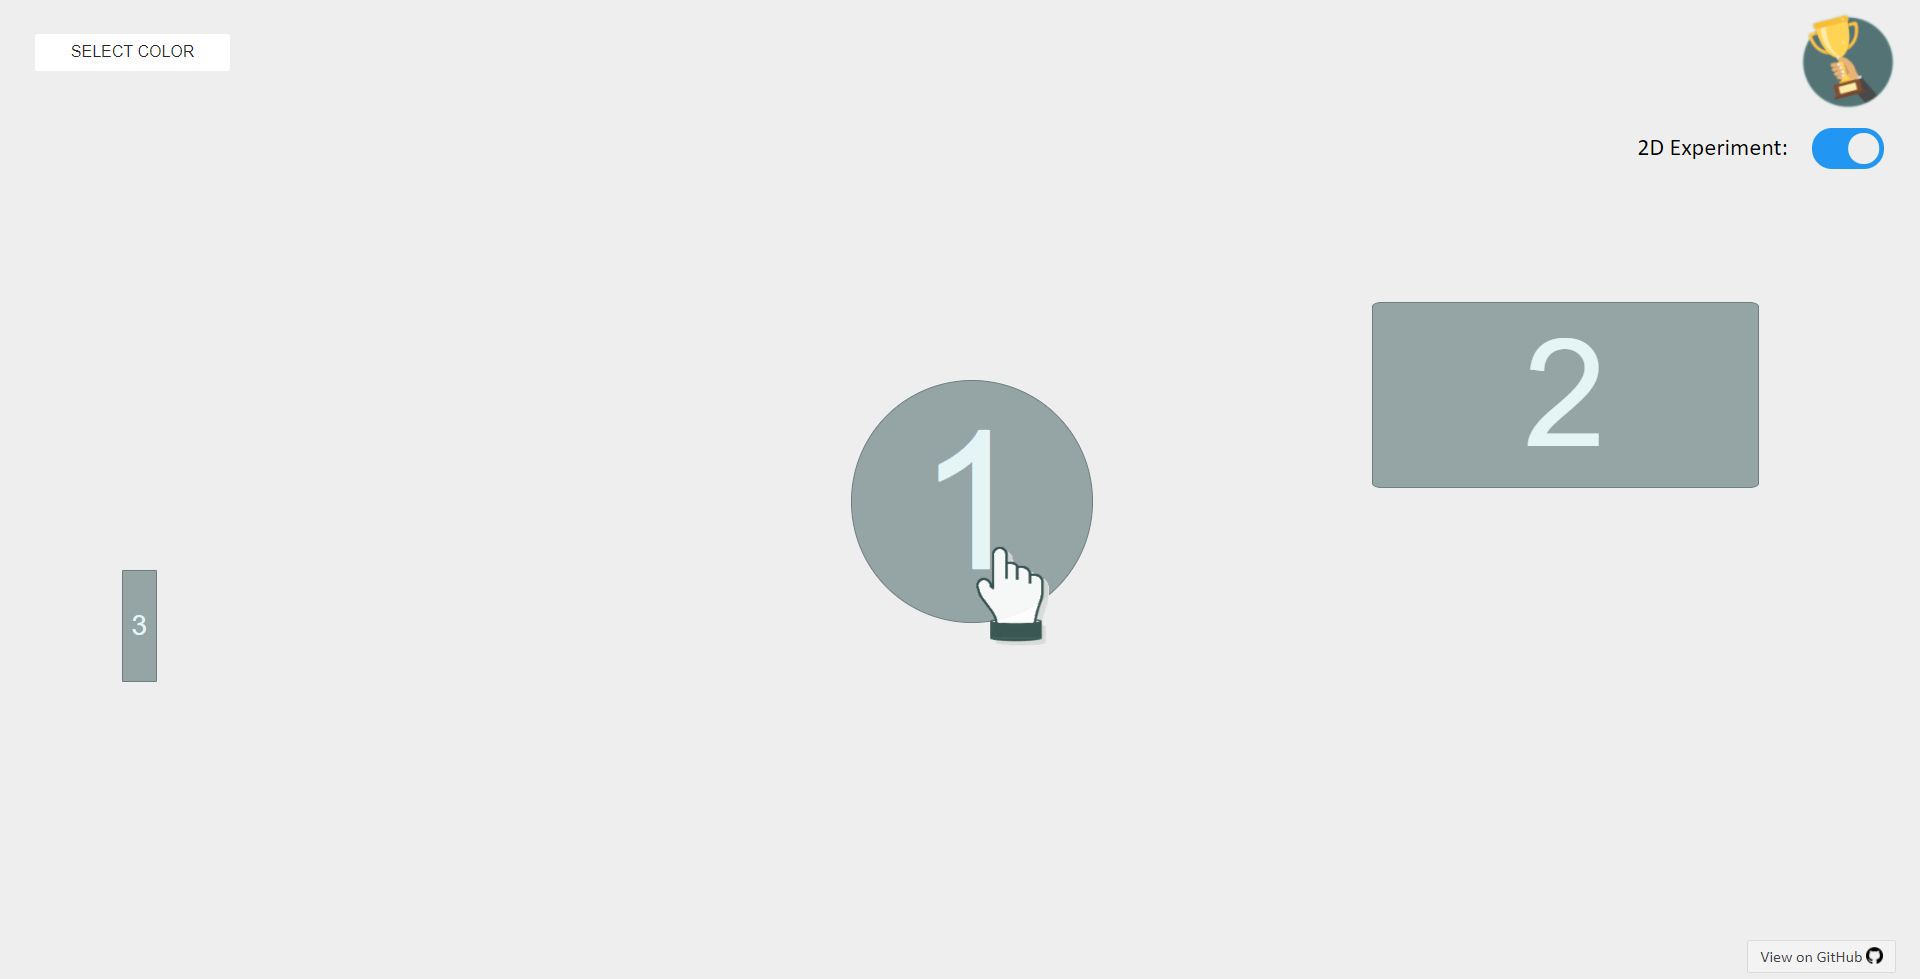
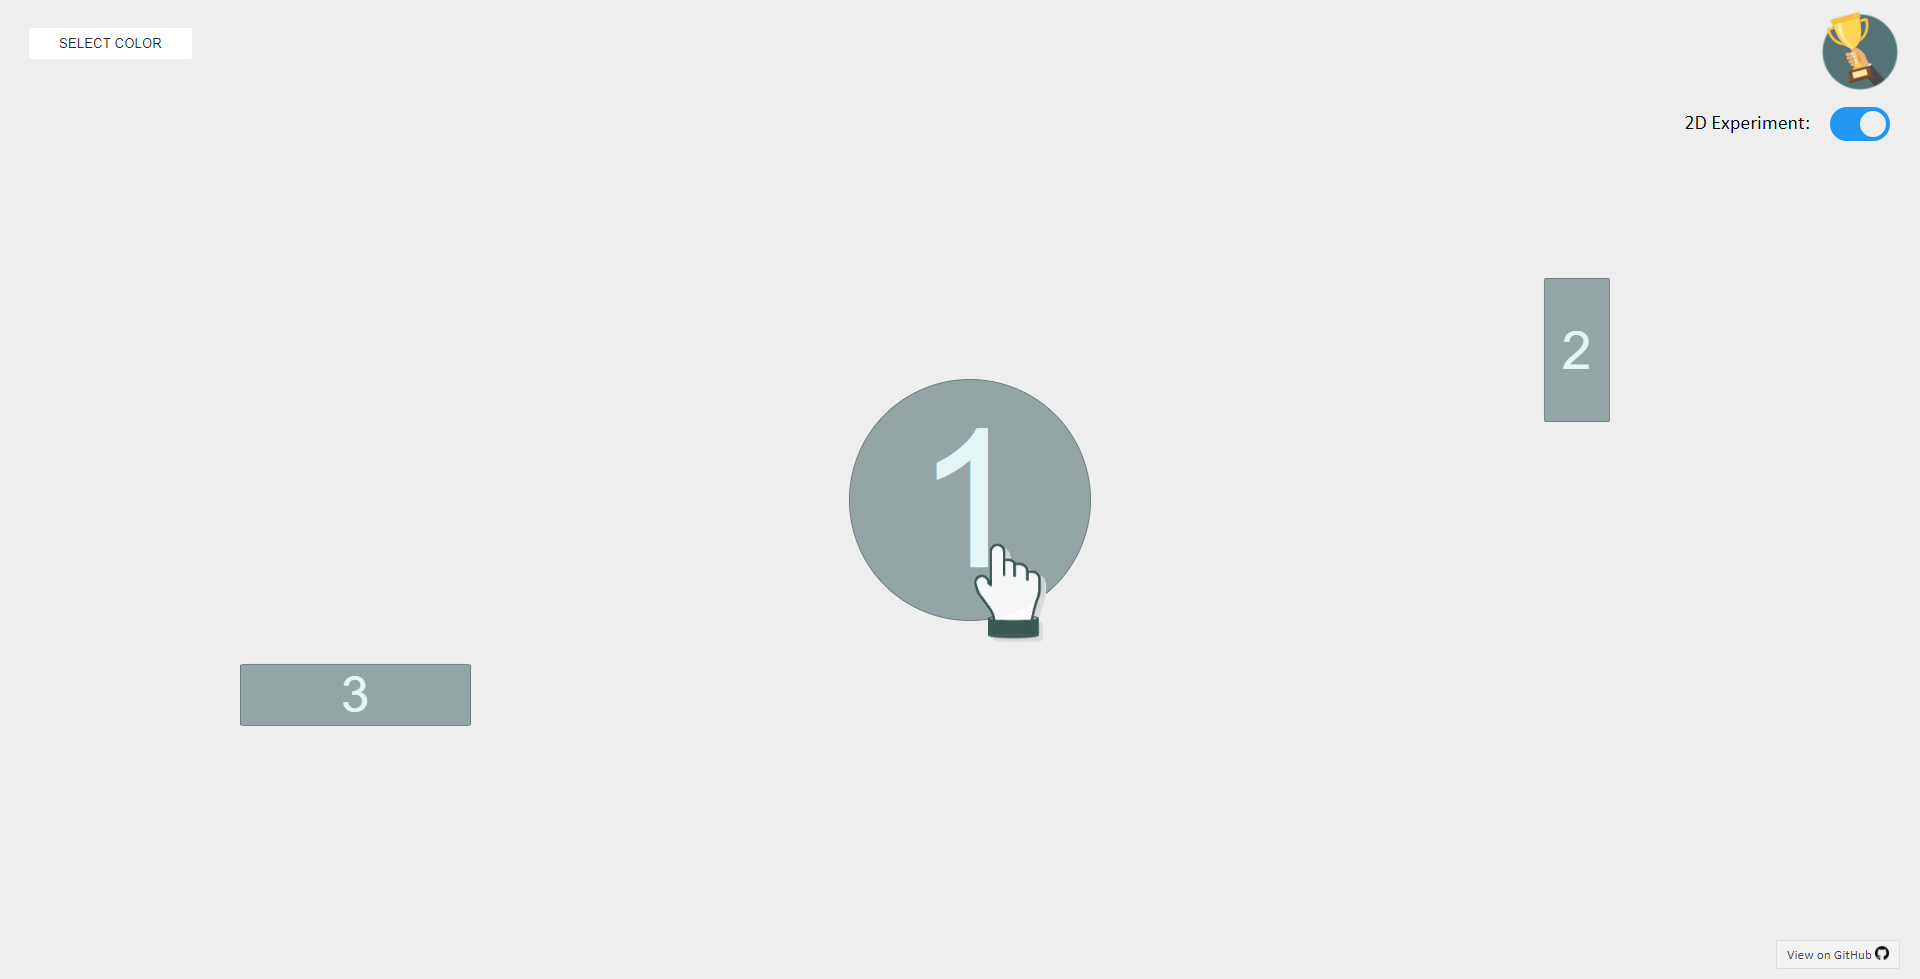
easier parse

diff --git a/import/js/hints.js b/import/js/hints.js
@@ -18,8 +18,8 @@ function trackStartPoint() {
 
     hand.style.width = button.offsetWidth * .3;
 
-    var x = (parseInt(button.style.left.split("px")[0]) + button.offsetWidth / 1.5 + 20) - hand.offsetWidth / 2;
-    var y = (parseInt(button.style.top.split("px")[0]) + button.offsetHeight / 1.5 + 20) - hand.offsetHeight / 2;
+    var x = (parsePixelPropertyValue(button.style.left) + button.offsetWidth / 1.5 + 20) - hand.offsetWidth / 2;
+    var y = (parsePixelPropertyValue(button.style.top) + button.offsetHeight / 1.5 + 20) - hand.offsetHeight / 2;
 
     hand.style.left = x;
     hand.style.top = y;
@@ -27,6 +27,10 @@ function trackStartPoint() {
     // https://stackoverflow.com/questions/19831319/restart-a-gif-animation-without-reloading-the-file/24810221
     hand.src = "media/hand_clicking.gif";
     hand.style.visibility = "visible";
+}
+
+function parsePixelPropertyValue(property) {
+    return parseInt(property.split("px")[0]);
 }
 
 function destroyOnHover() {

diff --git a/import/js/buttons.js b/import/js/buttons.js
@@ -57,7 +57,7 @@ function lockButton(button, index) {
             var i = 0;
             var buttonsProperties = [" ", " ", " "];
             for (const button of document.getElementsByClassName("button")) {
-                buttonsProperties[i] = button.style.top + "," + button.style.left + "," + button.offsetHeight + "," + button.offsetWidth;
+                buttonsProperties[i] = parsePixelPropertyValue(button.style.top) + "," + parsePixelPropertyValue(button.style.left) + "," + button.offsetHeight + "," + button.offsetWidth;
                 i++;
             }
 
@@ -130,7 +130,7 @@ function initializeColors() {
 
 var forbidden_margin = 20;
 var forbidden_top = 140;
-var forbidden_bottom = 90;
+var forbidden_bottom = 71;
 
 function randomizeSize(button, index) {
 

diff --git a/import/css/ui-styles.css b/import/css/ui-styles.css
@@ -238,7 +238,7 @@ input:checked + .slider:before {
 
 .credits {
   position: fixed;
-  bottom: 20;
+  bottom: 10;
   right: 20;
 }
 
